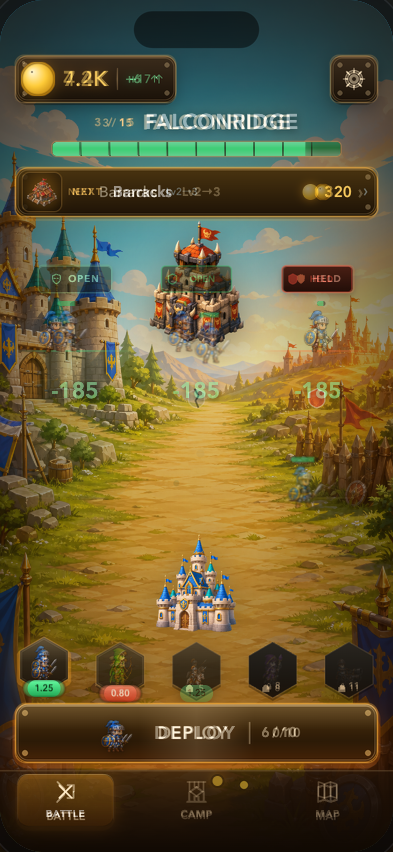
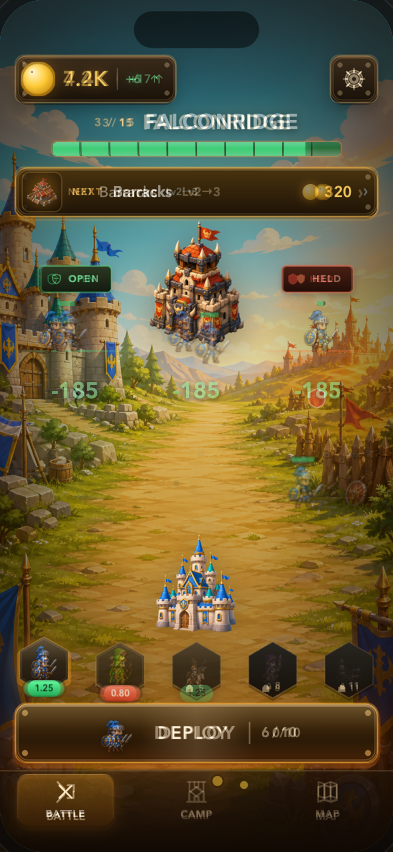
fix: align Falconridge open lane

diff --git a/PyxisTests/BattleHUDNodeTests.swift b/PyxisTests/BattleHUDNodeTests.swift
@@ -358,7 +358,7 @@ struct BattleHUDNodeTests {
         )) == .tab(.battle))
     }
 
-    @Test func rendersOnlyAuthoredNonStandardLaneChips() throws {
+    @Test func falconridgeRendersOpenLeftAndHeldRightWithoutObscuringTheCity() throws {
         let layout = try #require(BattleChromeLayout.compute(.init(
             sceneSize: CGSize(width: 393, height: 852),
             safeAreaInsets: .init(top: 59, left: 0, bottom: 34, right: 0)
@@ -368,17 +368,19 @@ struct BattleHUDNodeTests {
         let node = BattleHUDNode()
         _ = node.apply(content: content, layout: layout)
 
-        let leftChip = try #require(node.childNode(withName: "battleLaneChip-0"))
         let exposedLabel = try #require(
-            node.childNode(withName: "battleLaneChipLabel-1") as? SKLabelNode
+            node.childNode(withName: "battleLaneChipLabel-0") as? SKLabelNode
+        )
+        let centerChip = try #require(
+            node.childNode(withName: "battleLaneChip-1")
         )
         let fortifiedLabel = try #require(
             node.childNode(withName: "battleLaneChipLabel-2") as? SKLabelNode
         )
 
-        #expect(leftChip.isHidden)
         #expect(exposedLabel.isHidden == false)
         #expect(exposedLabel.text == "OPEN")
+        #expect(centerChip.isHidden)
         #expect(fortifiedLabel.isHidden == false)
         #expect(fortifiedLabel.text == "HELD")
     }
@@ -397,7 +399,7 @@ struct BattleHUDNodeTests {
             layout: layout
         )
 
-        for lane in [BattleLane.center, .right] {
+        for lane in [BattleLane.left, .right] {
             let shield = try #require(
                 node.childNode(withName: "battleLaneChipShield-\(lane.rawValue)") as? SKShapeNode
             )

diff --git a/PyxisTests/Country1CityCatalogTests.swift b/PyxisTests/Country1CityCatalogTests.swift
@@ -52,7 +52,7 @@ struct Country1CityCatalogTests {
     private static let expectedDefinitions: [ExpectedDefinition] = [
         .init(1, name: "Willowford", flavorText: "A quiet crossing where the campaign begins.", conquestTitle: "Willowford Secured", .standardWatch, .left, .right),
         .init(2, name: "Pinewatch", flavorText: "A hill watchtown guarding the old trade road.", conquestTitle: "Pinewatch Secured", .standardWatch, .center, .left),
-        .init(3, name: "Falconridge", flavorText: "Arrow towers command the high ridge road.", conquestTitle: "Falconridge Silenced", .arrowTower, .right, .center),
+        .init(3, name: "Falconridge", flavorText: "Arrow towers command the high ridge road.", conquestTitle: "Falconridge Silenced", .arrowTower, .right, .left),
         .init(4, name: "Bramblegate", flavorText: "Iron spikes guard a narrow frontier gate.", conquestTitle: "Bramblegate Broken", .spikedGate, .left, .right),
         .init(5, name: "Highcrest", flavorText: "A proud hill fortress crowns the frontier.", conquestTitle: "Highcrest Falls", .arrowTower, .center, .left),
         .init(6, name: "Granite Pass", flavorText: "Stone walls seal the mountain road ahead.", conquestTitle: "Granite Pass Open", .stoneWall, .right, .center),

diff --git a/PyxisTests/CountryMapScoutCardContentTests.swift b/PyxisTests/CountryMapScoutCardContentTests.swift
@@ -155,7 +155,7 @@ struct CountryMapScoutCardContentTests {
         let expected: [ExpectedScoutDetails] = [
             .init(1, .standardWatch, [], [], .right),
             .init(2, .standardWatch, [], [], .left),
-            .init(3, .arrowTower, [.infantry, .cavalry], [.archer, .mage], .center),
+            .init(3, .arrowTower, [.infantry, .cavalry], [.archer, .mage], .left),
             .init(4, .spikedGate, [.archer, .mage], [.infantry, .cavalry], .right),
             .init(5, .arrowTower, [.infantry, .cavalry], [.archer, .mage], .left),
             .init(6, .stoneWall, [.mage, .siege], [.archer], .center),

diff --git a/PyxisTests/BattleHUDContentTests.swift b/PyxisTests/BattleHUDContentTests.swift
@@ -73,8 +73,8 @@ struct BattleHUDContentTests {
         let state = KingdomGameState(cityNumberInCountry: 3, completedCityCount: 2)
         let content = BattleHUDContent.project(from: state, manualCount: 0)
 
-        #expect(content.laneDefenseProfile.exposedLane == .center)
+        #expect(content.laneDefenseProfile.exposedLane == .left)
         #expect(content.laneDefenseProfile.fortifiedLane == .right)
-        #expect(content.laneDefenseProfile.role(for: .left) == .standard)
+        #expect(content.laneDefenseProfile.role(for: .center) == .standard)
     }
 }

diff --git a/Pyxis/Country1CityCatalog.swift b/Pyxis/Country1CityCatalog.swift
@@ -32,7 +32,7 @@ enum Country1CityCatalog {
             flavorText: "Arrow towers command the high ridge road.",
             conquestTitle: "Falconridge Silenced",
             defenseTrait: .arrowTower,
-            laneDefenseProfile: LaneDefenseProfile(fortifiedLane: .right, exposedLane: .center)
+            laneDefenseProfile: LaneDefenseProfile(fortifiedLane: .right, exposedLane: .left)
         ),
         CityDefinition(
             cityNumber: 4,

diff --git a/.superpowers/sdd/2026-08-29-forged-gameplay-ui-redesign-implementation/progress.md b/.superpowers/sdd/2026-08-29-forged-gameplay-ui-redesign-implementation/progress.md
@@ -125,3 +125,4 @@ Task 12: implementation complete, review clean — corrected forged panel/HP/tab
 Task 12: fix round 1/5 (1 addressed, 0 open — stale Battle-normal transport provenance replaced with direct 1179×2556 `simctl io screenshot` evidence, 393×852 comparison downsampling, the unavoidable Dynamic Island/system mask, and truthful fixture-state differences).
 Task 12: fix round 1/5 complete (review clean — documentation-only correction; production, tests, and images untouched).
 Task 12: visual acceptance refinement complete — matched full-canvas unit portraits, exact authored tab SVG bounds, structure boxes, objective/income details, outline weight, and the phone-edge vignette; removed the duplicate full-layout city HP sliver; regenerated direct 393×852 native, side-by-side, and 50% overlay evidence. Fresh serial PyxisTests passed 882/882, targeted SwiftLint reported 0 violations, and `git diff --check` passed. Dynamic Island/system masking and truthful fixture-state values remain the only documented comparison differences.
+Task 12: visual acceptance refinement follow-up — Falconridge's authored exposed lane now matches the canonical left-lane OPEN placement while its fortified lane remains right, keeping the HUD and combat multiplier truthful. Refreshed direct native/side-by-side/overlay evidence plus an unfrozen live-combat damage capture were inspected. The four affected projection/render suites pass 38/38; the full serial run resolves every lane-related expectation and reports 876 passes with six unchanged accessibility-adapter failures in Country Map/GameViewController tests. Targeted SwiftLint exits cleanly with 17 existing line-length warnings and 0 serious violations; `git diff --check` passes.

diff --git a/docs/visual-parity/forged-ui/README.md b/docs/visual-parity/forged-ui/README.md
@@ -38,6 +38,8 @@ Every minimum state has the canonical mock, a simulator capture, a deterministic
 - Native framebuffer: 1179×2556 pixels, 3×, logical 393×852 points (`simctl io screenshot`, no resampling)
 - Battle-normal capture: direct `simctl io screenshot` framebuffer at
   1179×2556 pixels (3×), corresponding to the logical 393×852 viewport.
+- Live-damage capture: `native/battle-live-damage-393x852@3x.png` is an
+  unfrozen battle fixture frame showing real combat damage feedback.
 - Battle-normal comparison board and 50% overlay: the native framebuffer is
   downsampled to 393×852 logical pixels before comparison with the canonical
   mock.
